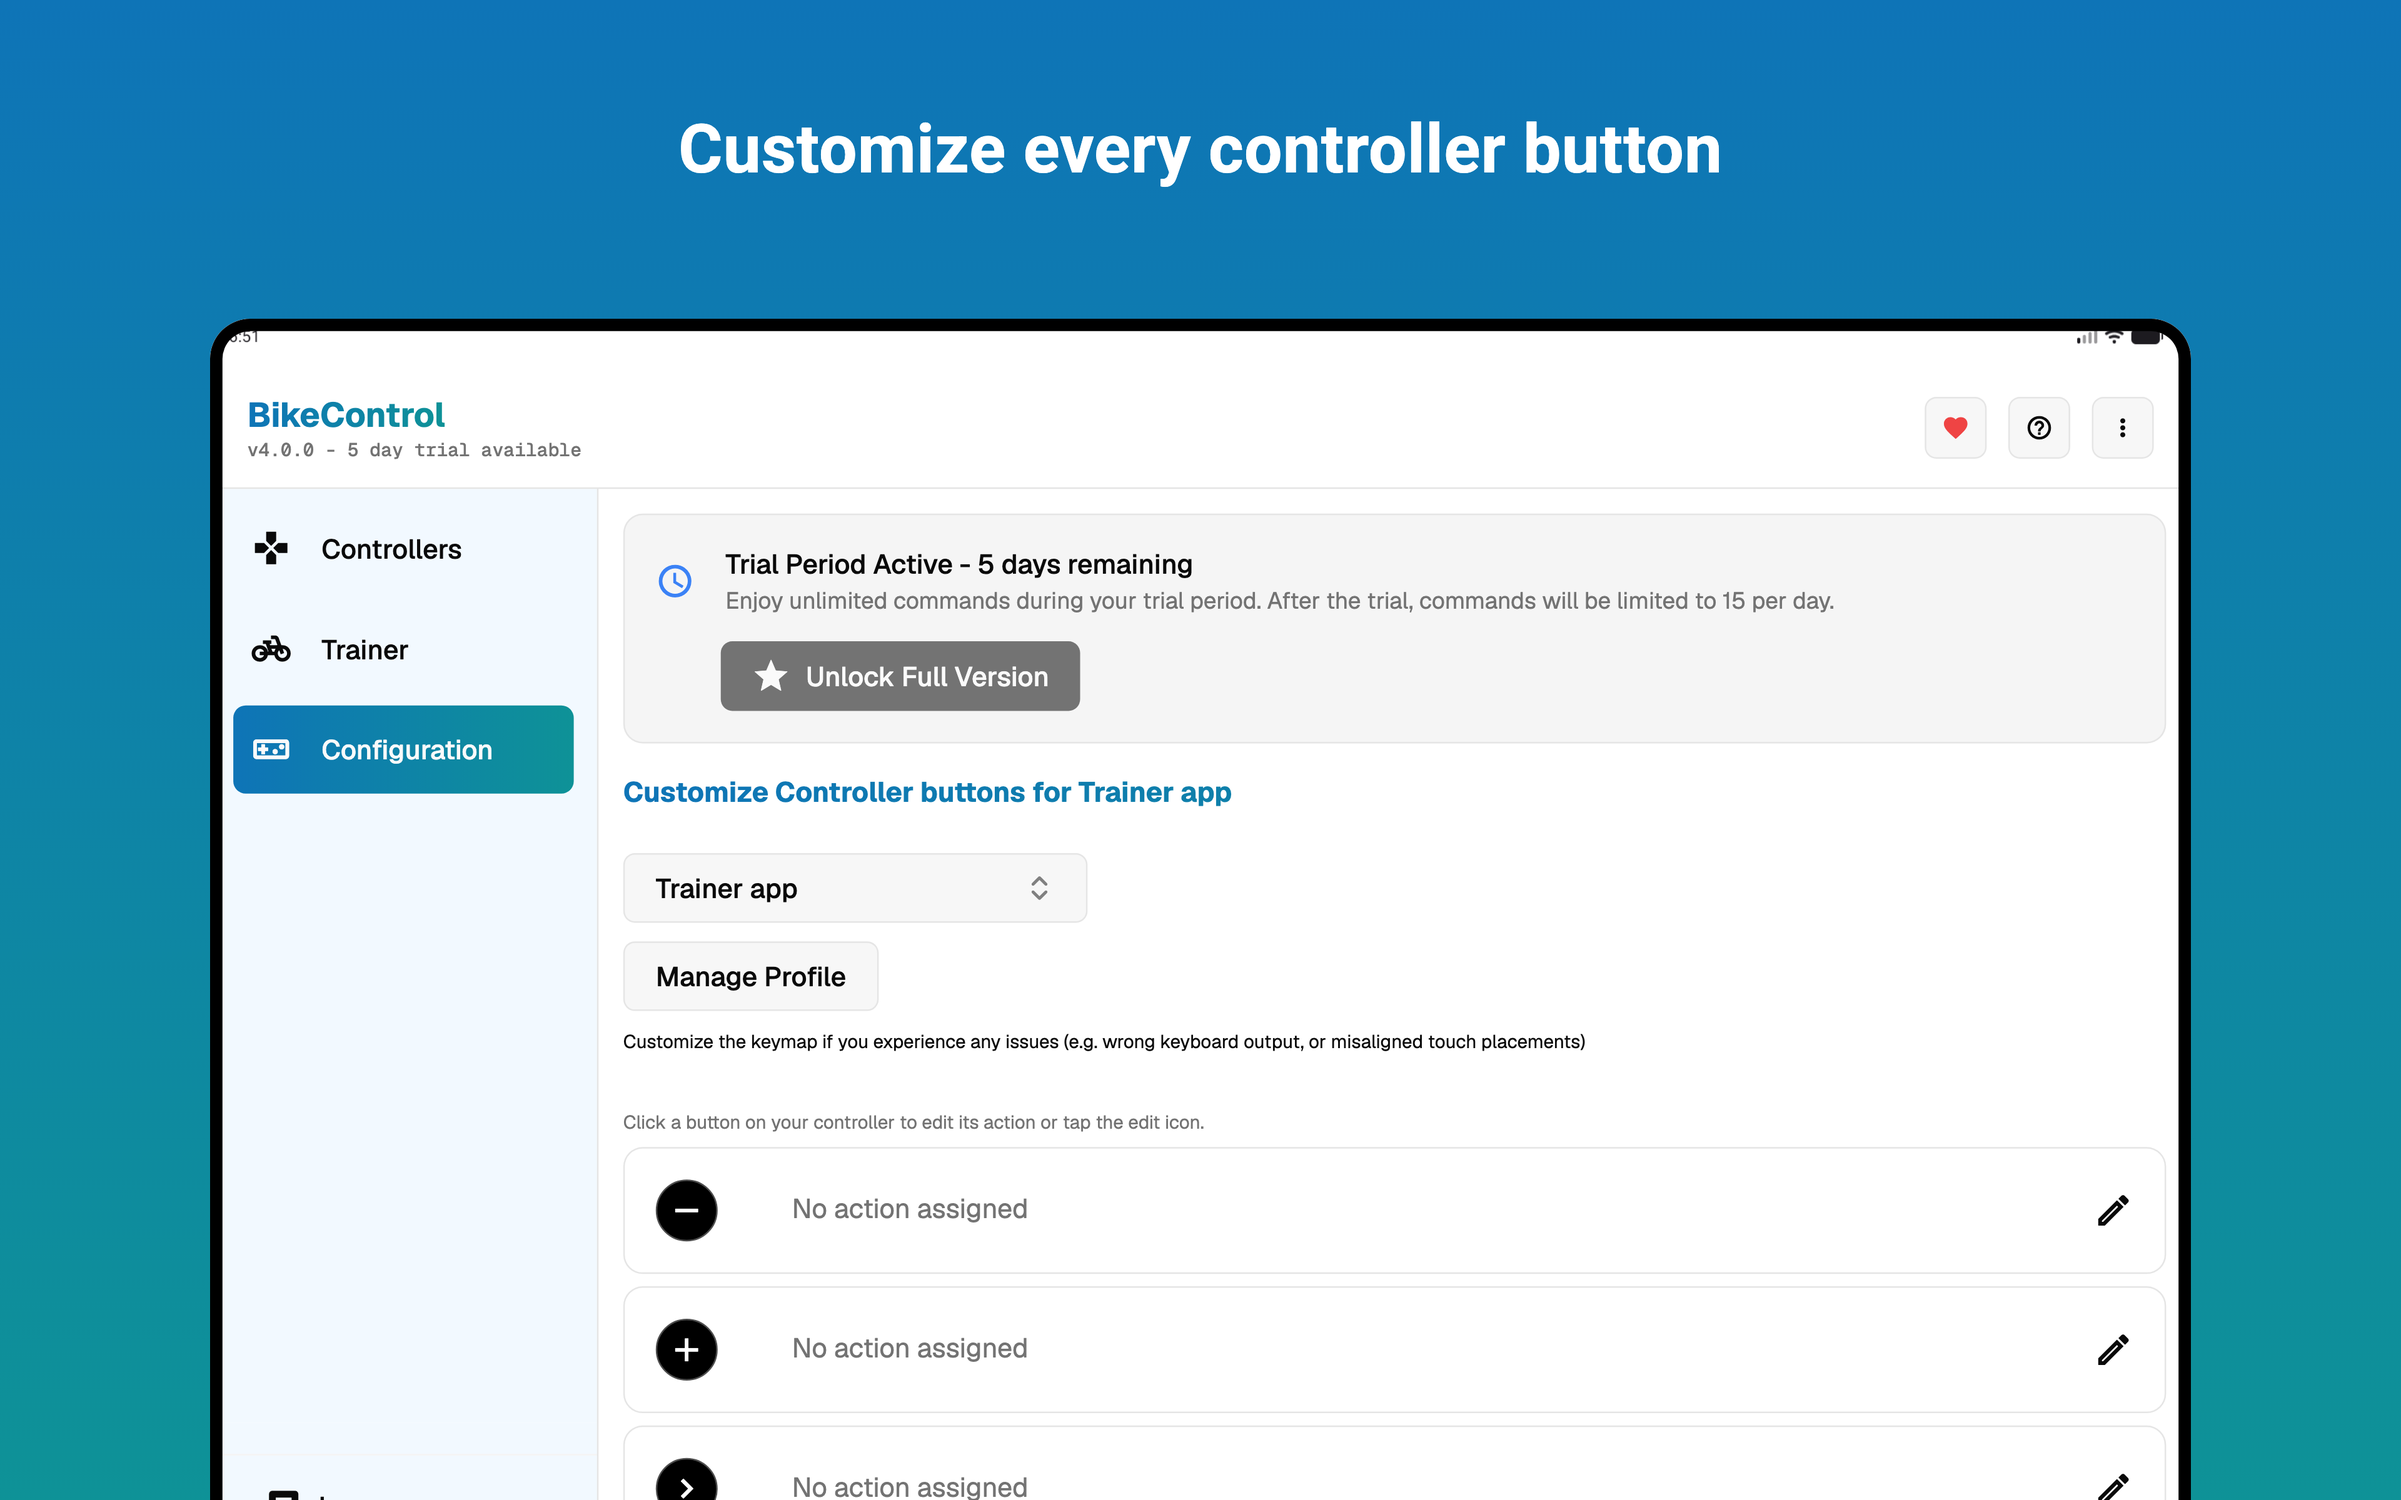
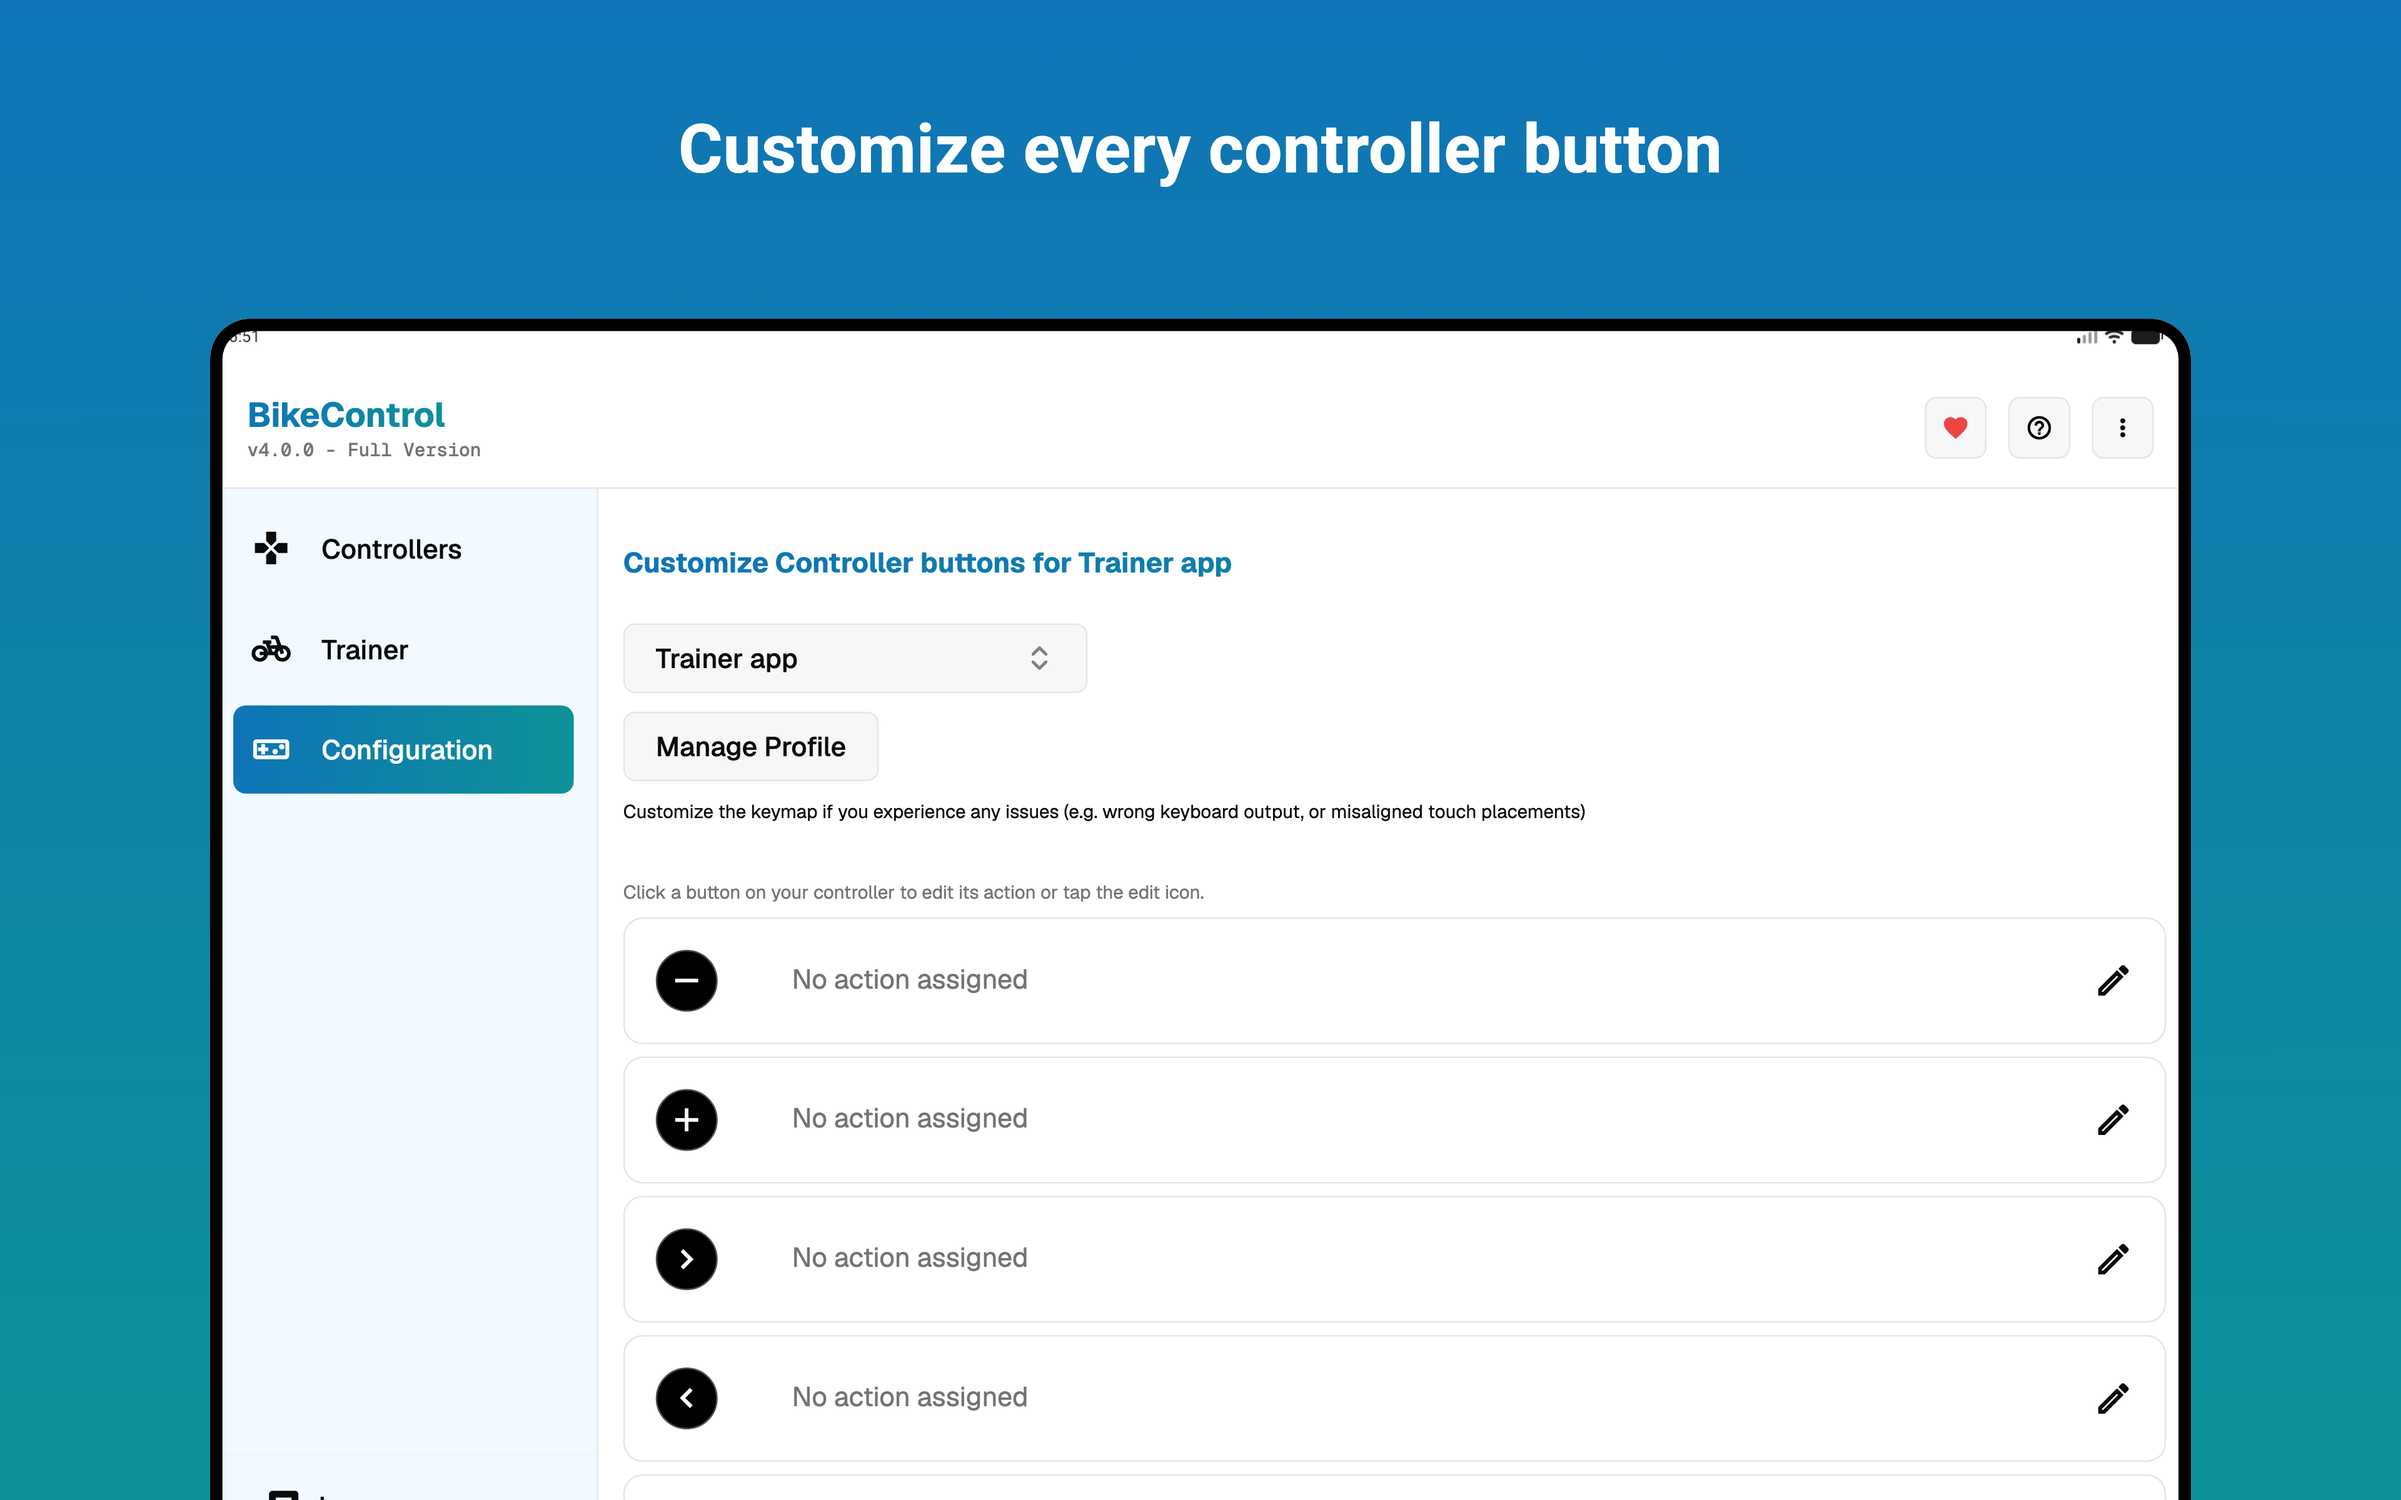
screenshot fix

diff --git a/test/screenshot_test.dart b/test/screenshot_test.dart
@@ -3,6 +3,7 @@ import 'package:bike_control/main.dart';
 import 'package:bike_control/pages/button_simulator.dart';
 import 'package:bike_control/pages/navigation.dart';
 import 'package:bike_control/utils/core.dart' show core;
+import 'package:bike_control/utils/iap/iap_manager.dart';
 import 'package:bike_control/utils/keymap/apps/my_whoosh.dart';
 import 'package:bike_control/utils/requirements/multi.dart';
 import 'package:flutter/material.dart' as ma;
@@ -35,8 +36,11 @@ Future<void> main() async {
     buildNumber: '1',
     buildSignature: '',
   );
+  IAPManager.instance.isPurchased.value = true;
   FlutterSecureStorage.setMockInitialValues({});
   SharedPreferences.setMockInitialValues({});
+
+  screenshotMode = true;
 
   await core.settings.init();
   await core.settings.reset();
@@ -70,7 +74,6 @@ Future<void> main() async {
   ];
 
   debugDisableShadows = true;
-  screenshotMode = true;
 
   testGoldens('Init', (WidgetTester tester) async {
     screenshotMode = true;

diff --git a/lib/utils/iap/iap_manager.dart b/lib/utils/iap/iap_manager.dart
@@ -1,6 +1,7 @@
 import 'dart:io';
 
 import 'package:bike_control/gen/l10n.dart';
+import 'package:bike_control/main.dart';
 import 'package:bike_control/utils/iap/iap_service.dart';
 import 'package:bike_control/utils/iap/windows_iap_service.dart';
 import 'package:flutter/foundation.dart';
@@ -25,7 +26,7 @@ class IAPManager {
   Future<void> initialize() async {
     final prefs = FlutterSecureStorage(aOptions: AndroidOptions());
 
-    if (kIsWeb) {
+    if (kIsWeb || screenshotMode) {
       // Web doesn't support IAP
       return;
     }
